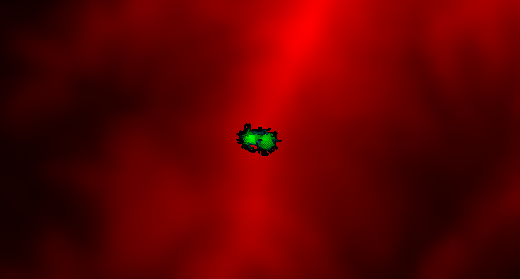
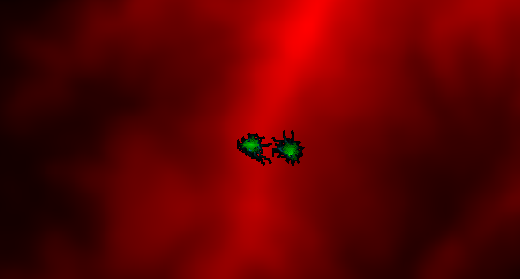
Bug fix
Now rabies bite spread a whole group

Changed region(s): [[0.4308, 0.4301, 0.5846, 0.6022]]

diff --git a/Assets/OnMapSpawn.cs b/Assets/OnMapSpawn.cs
@@ -162,7 +162,8 @@ public class OnMapSpawn : MonoBehaviour
     private float infectedrate=0.1f; //100% for test
 
     int rabiespreadloop=0;
-
+    int day_count=0;
+    int day_max=20;
     int e_to_i_date = 10 ; //10 days
 
 
@@ -171,6 +172,7 @@ public class OnMapSpawn : MonoBehaviour
     int rabiedetectrange = 5;
     int rabiechaserange = 6;
 
+    int rabies_roam_grid_radius=500;
     bool step_factor=true,step_apply=false,step_create=false;
 
 //--------------------------------------------------------------------------------------------
@@ -483,11 +485,11 @@ public class OnMapSpawn : MonoBehaviour
                  rabiesEnvironmentSet();
                  InclineFactorCalculated();
                 }
-                 if (rabiespreadloop <10)
+                 if (rabiespreadloop <20)
                 {
                     if(step_factor)
                     {
-                    FleeFactorCalculated();
+                    //FleeFactorCalculated();
                     ChaseFactorCalculated();
                     HomeFactorCalculated();
                     
@@ -497,9 +499,10 @@ public class OnMapSpawn : MonoBehaviour
                     }
                    if(step_apply)
                    {
-                    Factor_summarize();
+                    //Factor_summarize();
                     //Factor_apply();
                     Stateupdater();
+                    rabies_bite_and_spread();
                     step_create=true;
                     step_apply=false;
                     uicontroller.updateProcessDetail("Apply Factor calculation:"+ rabiespreadloop);
@@ -538,6 +541,16 @@ private void dogeverygroup_updater()
     float sumsus=0.0f;
     float[] sumex = new float[e_to_i_date];
     float[] suminf = new float[i_to_r_date];
+
+                    for(int d=0;d<e_to_i_date;d++)
+                        {
+                            sumex[d]=0;
+                        }
+                         for(int dd=0;dd<i_to_r_date;dd++)
+                        {
+                            suminf[dd]=0;
+                        }
+
        for (int m = 0; m < xgridsize; m++)
             {
                 for (int n = 0; n < ygridsize; n++)
@@ -563,11 +576,39 @@ private void dogeverygroup_updater()
                         }
                     for(int aa=0;aa<i_to_r_date;aa++)
                         {
-                            dogeverygroup.infectamount[m,n,aa]=sumex[aa];
+                            dogeverygroup.infectamount[m,n,aa]=suminf[aa];
                             suminf[aa]=0.0f;
                         }
                 }
             }
+}
+private float groupgridcounter(int groupnumber)
+{
+   float gridcount=0;
+    
+            for (int m = 0; m < xgridsize; m++)
+            {
+                for (int n = 0; n < ygridsize; n++)
+                {
+                    if(founddogwithgroup(m,n,groupnumber))gridcount++;
+                }
+            }
+    return gridcount;
+}
+
+private int foundgroupnum(int lon,int lat)
+{
+    int groupnum=-1;
+    
+            for (int grabies = 0; grabies < dogeachgroup.Count; grabies++)
+            {
+              if(dogeachgroup[grabies].suspectamount[lon,lat]>0)
+              {
+                groupnum=grabies;
+                break;
+              }
+            }
+    return groupnum;
 }
 
 private bool foundinfect(int lon,int lat)
@@ -581,6 +622,25 @@ private bool foundinfect(int lon,int lat)
             {
             
                          if( dogeverygroup.infectamount[lon,lat,d]>0.0f)
+                         {
+                            return true;
+                         }
+            }
+            return false;
+        
+}
+
+private bool foundexposed(int lon,int lat)
+{
+
+    if(lon<0)return false;
+    if(lat<0)return false;
+    if(lon>=xgridsize)return false;
+    if(lat>=ygridsize)return false;
+    for(int d=0; d< e_to_i_date;d++)
+            {
+            
+                         if( dogeverygroup.exposeamount[lon,lat,d]>0.0f)
                          {
                             return true;
                          }
@@ -958,6 +1018,7 @@ private void rabiesEnvironmentSet()
                     }
                 }
              }
+            // Debug.Log("I do only once");
 
 }
 //----------------------------------------------------------------------------------------------------------------------------
@@ -1403,7 +1464,7 @@ private void Stateupdater()
              //need to revise on dog tranfer amount
              //shouldn't fix at group suspect
             //xxxxxxxxxxxxxxxxxxxxxxxxxxxxxxxxxxxxxxxxxxxxxxxxxxxxxx    
-              for (int m = 0; m < xgridsize; m++)
+             /*  for (int m = 0; m < xgridsize; m++)
                  {
                     for (int n = 0; n < ygridsize; n++)
                      {
@@ -1416,24 +1477,68 @@ private void Stateupdater()
                             float  currentgroup_proposion=0.0f;
                            for(int grabies2=0; grabies2 < dogeachgroup.Count; grabies2 ++)
                            {
-                            if(dogeachgroup[grabies2].suspectamount[m,n]!=0.0f) currentgroup_proposion = dogeverygroup.suspectamount[m,n]/dogeachgroup[grabies2].suspectamount[m,n];
+                            if(dogeverygroup.suspectamount[m,n]!=0.0f) currentgroup_proposion = dogeachgroup[grabies2].suspectamount[m,n]/dogeverygroup.suspectamount[m,n];
                             else currentgroup_proposion = 0.0f;
                             dogeachgroup[grabies2].exposeamount[m,n,0] += (rabietranfer*currentgroup_proposion);
                            dogeachgroup[grabies2].suspectamount[m,n]-= (rabietranfer*currentgroup_proposion) ;
                            }
                          }
                      }
-                 }
+                 }*/
            //xxxxxxxxxxxxxxxxxxxxxxxxxxxxxxxxxxxxxxxxxxxxxxxxxxxxxx
+}
+//----------------------------------------------------------------------------------------------------------------
+
+
+private void rabies_bite_and_spread()
+{
+
+     for (int m = 0; m < xgridsize; m++)
+                {
+                    for (int n = 0; n < ygridsize; n++)
+                    {
+                        if (foundinfect(m,n))
+                         {
+                           float rabietranfer;
+                           rabietranfer = dogeverygroup.suspectamount[m,n] * biterate * infectedrate * infectsumatpoint(m,n); 
+                           if (rabietranfer > dogeverygroup.suspectamount[m,n]) rabietranfer=dogeverygroup.suspectamount[m,n];
+                           //group now not move an inches,except placed rabies
+                           //So no way we will see two group in one area 
+                            //but it fucking spread to whole group right now
+                            //Damn realistic ever
+                            //Help me a lot fuck
+                            //spread number to fuck whole group
+                            if(rabietranfer>0)
+                            {
+                                int pointgroupnum=foundgroupnum(m,n);
+                                rabietranfer=rabietranfer/groupgridcounter(pointgroupnum);
+                                 for (int mm = 0; mm < xgridsize; mm++)
+                                        {
+                                        for (int nn = 0; nn < ygridsize; nn++)
+                                            {
+                                                if(founddogwithgroup(mm,nn,pointgroupnum))
+                                                {
+                                                    if(rabietranfer>dogeachgroup[pointgroupnum].suspectamount[mm,nn])
+                                                    {
+                                                        dogeachgroup[pointgroupnum].exposeamount[mm,nn,0]+=dogeachgroup[pointgroupnum].suspectamount[mm,nn];
+                                                        dogeachgroup[pointgroupnum].suspectamount[mm,nn]=0;
+                                                    }
+                                                    else
+                                                    {
+                                                        dogeachgroup[pointgroupnum].exposeamount[mm,nn,0]+=rabietranfer;
+                                                        dogeachgroup[pointgroupnum].suspectamount[mm,nn]-=rabietranfer;
+                                                    }
+                                                }
+                                            }
+                                        }
+                            }
+                         }
+                    }
+                }
 }
 
 
-
-
-
-
-
-
+//----------------------------------------------------------------------------------------------------------------
 
 
 
